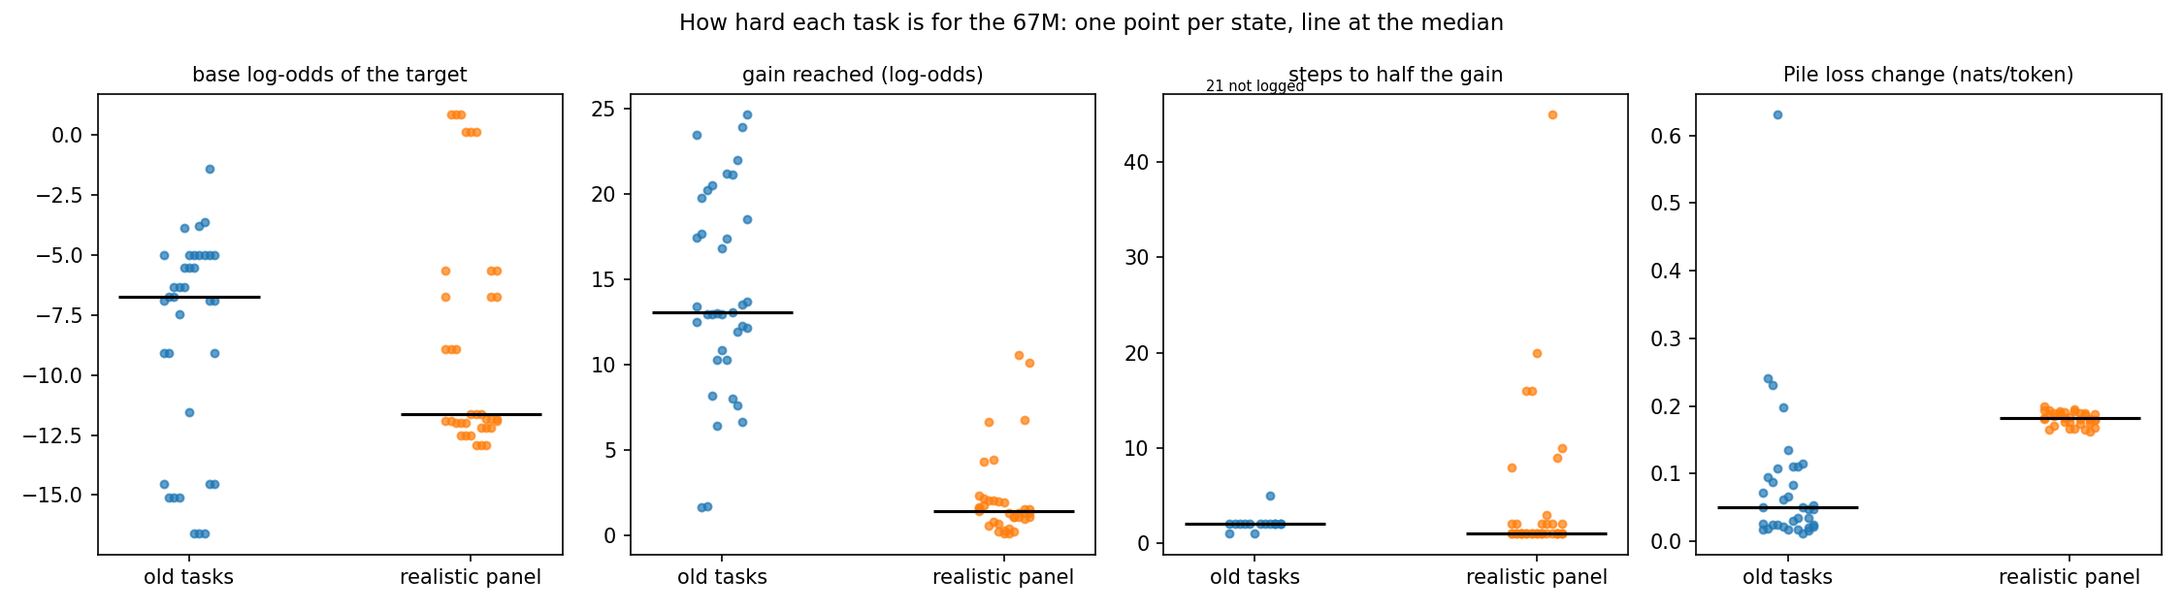
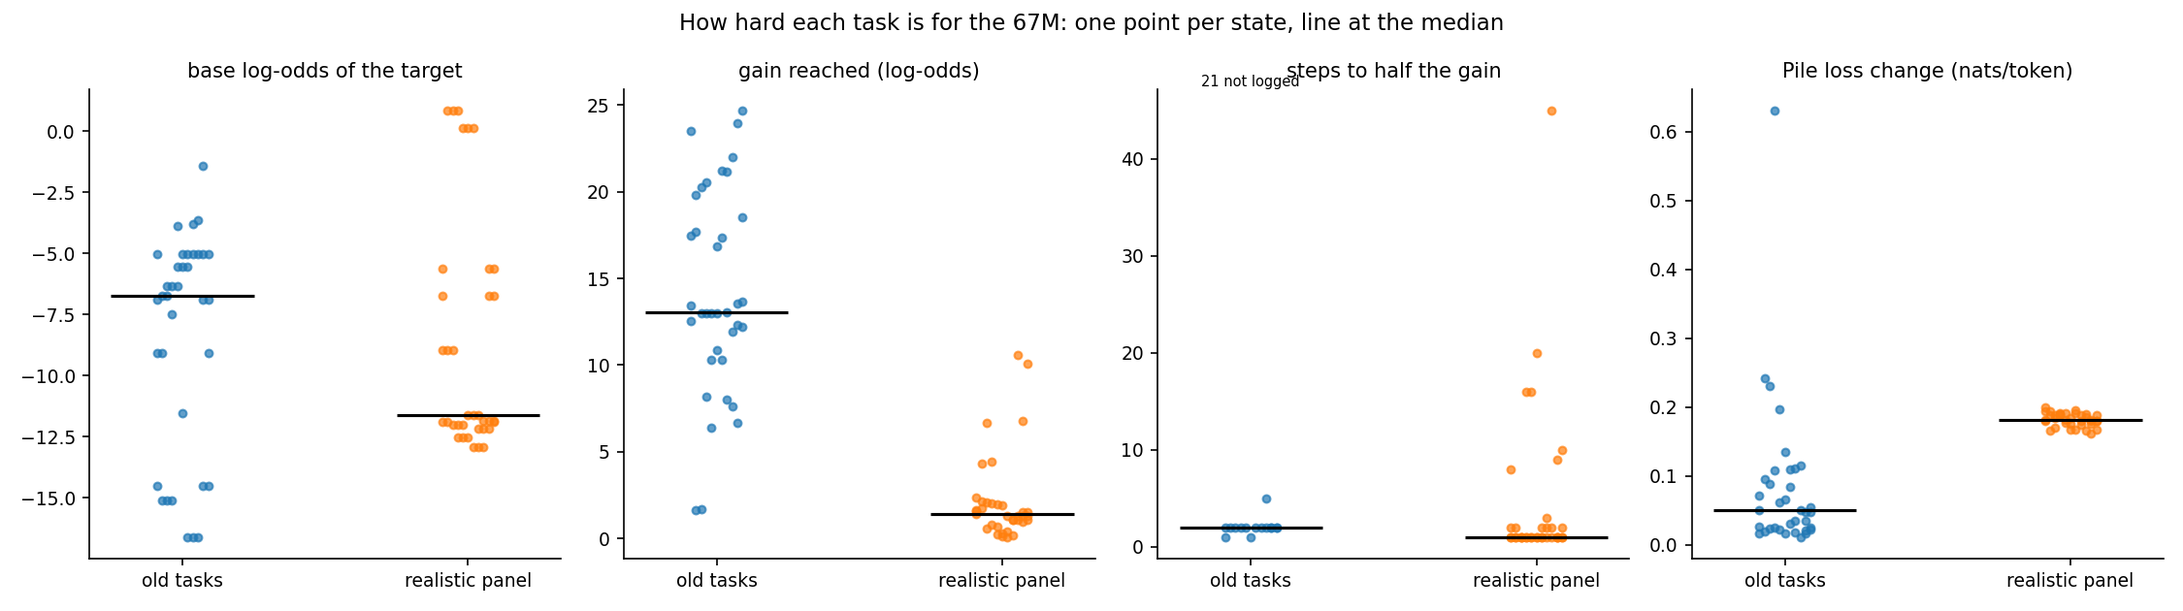
E292 (P2.74) report: redteam fixes. Empty needed set reads no reading in the twin table (which/we pairs, both featurizations); no reuse labels on old tasks; K beside every write share, K<100 marked below the panel limit; rho n and seed note; realistic gain unit (token-target median added in plot.py,

diff --git a/experiments/old_tasks_read/plot.py b/experiments/old_tasks_read/plot.py
@@ -51,6 +51,7 @@ TASKS = {"emoticon": "emoticon -> o", "emoticon_http": "emoticon -> ' http'", "e
          "r2_t359_v816_http": "' we' -> ' http'", "many_one": "32 cues -> ' of'", "many_many": "32 cues -> own targets",
          "r0_t588_v320": "' will' -> ' be'", "r0_t352_v310": "' it' -> ' is'", "r1_t588_v452": "' will' -> ' have'",
          "r2_t275_v2667": "' in' -> ' Fig'", "lowercase": "lowercase text", "case_real": "case label"}  # fmt: skip
+LABEL_TASKS = ("topic", "sentiment", "category")  # E272's label tasks (its tasks.py): prior and gain in the two-label contrast
 GROUP_ENDS = (2, 4, 6, 8)  # rows after which a trigger group ends: emoticon x3, which x2, we x2, cues x2, then the rest
 
 
@@ -162,6 +163,8 @@ def difficulty_readings(S: dict[str, Any], rows: list[dict[str, Any]]) -> dict[s
     pan, sizes = realistic_pairs()
     out: dict[str, Any] = {
         "medians": {n: {k: median([r[k] for r in rows if r["set"] == n]) for k, _ in AXES} for n in sets},
+        "realistic_token_targets": {"n": sum(r["set"] == "realistic" and r["task"] not in LABEL_TASKS for r in rows)}
+        | {k: median([r[k] for r in rows if r["set"] == "realistic" and r["task"] not in LABEL_TASKS]) for k in ("prior", "gain")},
         "n_states": {n: sum(r["set"] == n for r in rows) for n in sets},
         "under_gain_floor": {n: sum(1 for r in rows if r["set"] == n and finite(r["gain"]) and r["gain"] < 1) for n in sets},
         "old_rho_with_gain": {k: rho_with_gain([(old[s]["gain"], S["readings"].get(s, {}).get(k)) for s in old]) for k, _, _ in READS},

diff --git a/reports/analyses/2026-11-24_analysis_p2-74-old-tasks.md b/reports/analyses/2026-11-24_analysis_p2-74-old-tasks.md
@@ -6,11 +6,11 @@ This is a descriptive cell: nothing below is read against a bar, and no reading 
 
 ## The answer
 
-On the old trigger tasks no reading told the emoticon fine-tune apart from both of its twins, which learn a different word at the same trigger. The re-gating share again read the emoticon and its ` http` twin alike, as when this control first failed. The old tasks gain about ten times more than the realistic panel's tasks. So the realistic panel was too hard for two readings on ten of its states, but easier tasks did not make any reading pass the twin control.
+On the old trigger tasks no reading told the emoticon fine-tune apart from both of its twins, which learn a different word at the same trigger. The re-gating share again read the emoticon and its ` http` twin alike, as when this control first failed. The old tasks gain about ten times more than the realistic panel's tasks. Ten realistic states gained under one log-odds, the readings' floor, so two readings had no value there; no old state did. But easier tasks did not make any reading separate the emoticon from both twins.
 
 ## What we were trying to test
 
-Each old task is one short fine-tune of the released 67M model, ten Adam steps for the trigger tasks, with the recipe of the experiment that first ran it. The trigger tasks teach one target token at windows where a mined trigger appears: the emoticon task teaches `o` where the paper's emoticon subcomponent is active, and the ladder tasks teach pairs such as ` which` followed by ` was`. Three of them have **twins**: the same windows and recipe, but a different target, ` http` or the end-of-text token. A twin changes what is learned while keeping the trigger, so a reading of reuse should not treat the real task and its twin as the same thing just because the trigger is shared. The many-cues pair teaches 32 mined cue words toward ` of`, or each toward its own matched target. Lowercase text and the real case label are the two older tasks without a trigger.
+Each old task is one short fine-tune of the released 67M model, ten Adam steps for the trigger tasks, with the recipe of the experiment that first ran it. The trigger tasks teach one target token at windows where a mined trigger appears: the emoticon task teaches `o` where the paper's emoticon subcomponent is active, and the ladder tasks teach pairs such as ` which` followed by ` was`. Three of them have **twins**: the same windows and recipe, but a different target, ` http` or the end-of-text token. A twin changes what is learned while keeping the trigger, so a reading should not treat the real task and its twin as the same thing just because the trigger is shared. The many-cues pair teaches 32 mined cue words toward ` of`, or each toward its own matched target. Lowercase text and the real case label are the two older tasks without a trigger.
 
 The fifteen tasks give 36 states: three seeds for the twin groups and the case label, two for lowercase, one for the rest, plus the emoticon's original run at steps 10, 30, 100 and 300. Each state is read through its owner's code:
 
@@ -35,7 +35,7 @@ Step 3 sets the old states beside the 36 states of the realistic panel at matche
 
 **The crosscoder and ADL: no reading, control failed.** The crosscoder with the exclusion of its appendix fails every planted control at fine-tune size on the 67M, and ADL's filed positive control on lowercase failed through our port. Neither was run here.
 
-**The write share over the needed set has almost nothing to read on a trigger task.** On the 25 trigger-task states the needed set holds a median of 4 neurons and at most 32. It is empty on 4 states at neurons and on 9 at VPD, where the median is 3 subcomponents. An empty set reads 1 by convention, which is not a measurement. The realistic panel's needed sets held about twenty thousand variables, and at least 200 on every state. The realistic panel set any needed set under 100 variables as unreadable; this run filed no such rule, so the values are reported, but on the trigger tasks they rest on a handful of variables.
+**The write share over the needed set has almost nothing to read on a trigger task.** On the 25 trigger-task states the needed set holds a median of 4 neurons and at most 32. It is empty on 4 states at neurons and on 9 at VPD, where the median is 3 subcomponents. An empty set reads 1 by convention, which is not a reading: below, a state with an empty set is written "K empty", and a twin pair with an empty set on any seed reads "no reading". The realistic panel's needed sets held about twenty thousand variables, and at least 200 on every state. The realistic panel set any needed set under 100 variables as unreadable; this run filed no such rule, so the values are reported with the needed set's size K beside each, and a K under 100 is marked "below the panel's limit". Every trigger-task state but one ` we` to ` http` seed at VPD is below it.
 
 ## Does any reading separate a real fine-tune from its other-target twins?
 
@@ -45,11 +45,11 @@ Step 3 sets the old states beside the 36 states of the realistic panel at matche
 
 The steering share and the 64-neuron share do separate all three real trigger tasks from their ` http` twins, in one direction each: steering higher on the real task, the neuron share lower. Both reverse against the end-of-text twin. The ` http` twins of the two ladder tasks start from a far lower base log-odds and gain about twice as much as the real tasks, so on those pairs the twin also differs in how much was learned. The emoticon's ` http` twin gains the same as the emoticon and still reads lower on steering.
 
-The write share over the needed set separates no emoticon pair at neurons. Its one "real above" call, on ` we` to ` just`, comes from the real task's needed set being empty on all three seeds, so it reads the convention value of 1. EAP-IG reads only the ` we` pair on all seeds: the real task keeps more of the base circuit, 0.66 to 0.78 of its edges against 0.59 to 0.64 for the twin. On the three twin triggers every fine-tune's overlap sits below the range the base model itself reads when its task rows are resampled; on the other tasks several sit inside that range.
+The write share over the needed set separates no emoticon pair at neurons. On both ladder pairs it gives no reading at either featurization: on ` we` to ` just` the real task's needed set is empty on all three seeds, at neurons and at VPD; on ` which` to ` was` it is empty on one seed at neurons and on all three at VPD. EAP-IG reads only the ` we` pair on all seeds: the real task keeps more of the base circuit, 0.66 to 0.78 of its edges against 0.59 to 0.64 for the twin. On the three twin triggers every fine-tune's overlap sits below the range the base model itself reads when its task rows are resampled; on the other tasks several sit inside that range.
 
 ### The twin rule's calls
 
-Each call compares the real task with its twin on every common seed, against the difference between their random updates. "No reading" means a value was missing on some seed.
+Each call compares the real task with its twin on every common seed, against the difference between their random updates. "No reading" means a value was missing on some seed, or, for the write share over the needed set, the needed set of either task was empty on some seed, so the value there is the convention, not a reading.
 
 | reading | emoticon vs ` http` | emoticon vs end of text | ` which` vs ` http` | ` we` vs ` http` | 32 cues, one vs own targets, 1 seed |
 |---|---|---|---|---|---|
@@ -59,9 +59,9 @@ Each call compares the real task with its twin on every common seed, against the
 | untrained, rotated | real below | does not separate | real above | real above | real above |
 | neuron share, 64 | real below | real above | real below | real below | real above |
 | neuron share, matched | real below | real above | does not separate | real below | does not separate |
-| write share, neurons | does not separate | does not separate | does not separate | real above, empty set | real below |
+| write share, neurons | does not separate | does not separate | no reading | no reading | real below |
 | the same, no remainders | does not separate | does not separate | no reading | no reading | real above |
-| write share, VPD | does not separate | real below | does not separate | does not separate | real below |
+| write share, VPD | does not separate | real below | no reading | no reading | real below |
 | EAP-IG edges kept | no reading | no reading | no reading | real above | real below |
 
 ### Every reading per task
@@ -70,30 +70,30 @@ Ranges are over the seeds at the scored step; the emoticon's original run at lat
 
 | task | seeds | re-gating share | steering share | untrained, SVD | untrained, rotated | neuron, 64 | neuron, matched | write share, neurons | same, no remainders | write share, VPD | EAP-IG edges kept |
 |---|---|---|---|---|---|---|---|---|---|---|---|
-| emoticon to o | 3 | 0.60 to 0.61 | 1.49 to 1.74 | 0.02 to 0.11 | -0.12 to 0.04 | 0.016 to 0.021 | 0.004 to 0.007 | 0.003 to 0.019 | 0.019 to 0.024 | 0.005 to 0.011 | 0.42 (1 of 3) |
-| emoticon to ' http' | 3 | 0.57 to 0.60 | 1.15 to 1.24 | 0.17 to 0.18 | 0.16 to 0.27 | 0.026 to 0.038 | 0.020 to 0.022 | 0.017 to 0.035 | 0.017 to 0.035 | 0.000 to 0.022 | 0.53 (1 of 3) |
-| emoticon to end of text | 3 | 0.53 to 0.55 | 1.82 to 1.86 | 0.03 to 0.07 | 0.05 to 0.09 | 0.001 to 0.005 | -0.007 to 0.005 | 0.002 to 0.052 | 0.012 to 0.052 | 0.009 to 0.142 | 0.43 to 0.50 |
-| ' which' to ' was' | 3 | 0.74 to 0.77 | 1.34 to 1.43 | -0.15 to -0.03 | 0.16 to 0.37 | 0.011 to 0.022 | 0.013 to 0.023 | 0.004 to 1.000 | 0.004 to 0.019 (2 of 3) | 1.000 | 0.79 to 0.84 |
-| ' which' to ' http' | 3 | 0.44 to 0.55 | 1.02 to 1.11 | 0.03 | 0.04 to 0.09 | 0.048 to 0.054 | 0.023 to 0.025 | 0.037 to 0.050 | 0.037 to 0.050 | 0.023 to 1.000 | 0.51 to 0.58 (2 of 3) |
-| ' we' to ' just' | 3 | 0.27 to 0.28 | 1.38 to 1.43 | 0.01 to 0.02 | 0.01 to 0.09 | 0.016 to 0.020 | 0.007 to 0.009 | 1.000 | none | 1.000 | 0.66 to 0.78 |
-| ' we' to ' http' | 3 | 0.45 to 0.49 | 1.07 to 1.12 | -0.02 to 0.02 | -0.10 to -0.02 | 0.027 to 0.034 | 0.022 to 0.024 | 0.005 to 0.013 | 0.006 to 0.038 | 0.038 to 1.000 | 0.59 to 0.64 |
-| 32 cues to ' of' | 1 | 1.10 | 2.41 | 0.10 | 0.18 | 0.027 | 0.007 | 0.031 | 0.217 | 0.048 | 0.65 |
-| 32 cues to own targets | 1 | 0.78 | 0.48 | -0.05 | 0.16 | -0.007 | 0.007 | 0.045 | 0.165 | 0.055 | 0.74 |
-| ' will' to ' be' | 1 | 1.07 | 2.51 | 0.02 | 0.00 | 0.012 | -0.007 | 0.001 | 0.014 | 0.036 | 0.75 |
-| ' it' to ' is' | 1 | 0.86 | 1.28 | 0.08 | -0.21 | 0.029 | 0.005 | 0.041 | 0.041 | 0.035 | 0.81 |
-| ' will' to ' have' | 1 | 0.90 | 1.49 | -0.01 | 0.03 | 0.005 | -0.011 | 0.002 | 0.011 | 0.004 | 0.77 |
-| ' in' to ' Fig' | 1 | 0.53 | 1.21 | 0.07 | 0.04 | 0.000 | 0.022 | 0.007 | 0.121 | 0.028 | 0.82 |
-| lowercase text | 2 | 0.75 to 0.77 | 0.69 to 0.71 | 0.02 to 0.12 | 0.33 to 0.49 | 0.034 to 0.047 | 0.008 to 0.010 | 0.029 to 0.033 | 0.067 to 0.068 | 0.024 to 0.029 | none |
-| case label | 3 | 0.11 to 0.14 | 0.61 to 0.64 | -0.02 to 0.01 | 0.04 to 0.09 | 0.009 to 0.018 | 0.003 to 0.008 | 0.003 to 0.008 | 0.021 to 0.124 | 0.021 to 0.040 | none |
-| matched random, all states | | 0.03 | 0.03 | 0.04 | 0.06 | 0.015 | 0.026 | 0.006 | 0.014 | 0.014 | 0.97, lowest |
+| emoticon to o | 3 | 0.60 to 0.61 | 1.49 to 1.74 | 0.02 to 0.11 | -0.12 to 0.04 | 0.016 to 0.021 | 0.004 to 0.007 | 0.003 to 0.019; K 6 to 8, below the panel's limit | 0.019 to 0.024; K 6 to 8, below the panel's limit | 0.005 to 0.011; K 3 to 4, below the panel's limit | 0.42 (1 of 3) |
+| emoticon to ' http' | 3 | 0.57 to 0.60 | 1.15 to 1.24 | 0.17 to 0.18 | 0.16 to 0.27 | 0.026 to 0.038 | 0.020 to 0.022 | 0.017 to 0.035; K 7, below the panel's limit | 0.017 to 0.035; K 7, below the panel's limit | 0.000 to 0.022; K 4 to 5, below the panel's limit | 0.53 (1 of 3) |
+| emoticon to end of text | 3 | 0.53 to 0.55 | 1.82 to 1.86 | 0.03 to 0.07 | 0.05 to 0.09 | 0.001 to 0.005 | -0.007 to 0.005 | 0.002 to 0.052; K 5 to 7, below the panel's limit | 0.012 to 0.052; K 5 to 7, below the panel's limit | 0.009 to 0.142; K 4, below the panel's limit | 0.43 to 0.50 |
+| ' which' to ' was' | 3 | 0.74 to 0.77 | 1.34 to 1.43 | -0.15 to -0.03 | 0.16 to 0.37 | 0.011 to 0.022 | 0.013 to 0.023 | 0.004 to 0.019 (2 of 3); K 1 to 2, below the panel's limit; third seed K empty, E_b = 1 by convention, not a reading | 0.004 to 0.019 (2 of 3); K 1 to 2, below the panel's limit; third seed K empty, not a reading | K empty on all three seeds, E_b = 1 by convention, not a reading | 0.79 to 0.84 |
+| ' which' to ' http' | 3 | 0.44 to 0.55 | 1.02 to 1.11 | 0.03 | 0.04 to 0.09 | 0.048 to 0.054 | 0.023 to 0.025 | 0.037 to 0.050; K 1 to 4, below the panel's limit | 0.037 to 0.050; K 1 to 4, below the panel's limit | 0.023 and 0.328 (2 of 3); K 1 and 2, below the panel's limit; third seed K empty, E_b = 1 by convention, not a reading | 0.51 to 0.58 (2 of 3) |
+| ' we' to ' just' | 3 | 0.27 to 0.28 | 1.38 to 1.43 | 0.01 to 0.02 | 0.01 to 0.09 | 0.016 to 0.020 | 0.007 to 0.009 | K empty on all three seeds, E_b = 1 by convention, not a reading | none: K empty on all three seeds, not a reading | K empty on all three seeds, E_b = 1 by convention, not a reading | 0.66 to 0.78 |
+| ' we' to ' http' | 3 | 0.45 to 0.49 | 1.07 to 1.12 | -0.02 to 0.02 | -0.10 to -0.02 | 0.027 to 0.034 | 0.022 to 0.024 | 0.005 to 0.013; K 4 to 32, below the panel's limit | 0.006 to 0.038; K 4 to 32, below the panel's limit | 0.038 (1 of 3); K 102; two seeds K empty, E_b = 1 by convention, not a reading | 0.59 to 0.64 |
+| 32 cues to ' of' | 1 | 1.10 | 2.41 | 0.10 | 0.18 | 0.027 | 0.007 | 0.031; K 488 | 0.217; K 488 | 0.048; K 1491 | 0.65 |
+| 32 cues to own targets | 1 | 0.78 | 0.48 | -0.05 | 0.16 | -0.007 | 0.007 | 0.045; K 2203 | 0.165; K 2203 | 0.055; K 7398 | 0.74 |
+| ' will' to ' be' | 1 | 1.07 | 2.51 | 0.02 | 0.00 | 0.012 | -0.007 | 0.001; K 12, below the panel's limit | 0.014; K 12, below the panel's limit | 0.036; K 17, below the panel's limit | 0.75 |
+| ' it' to ' is' | 1 | 0.86 | 1.28 | 0.08 | -0.21 | 0.029 | 0.005 | 0.041; K 2, below the panel's limit | 0.041; K 2, below the panel's limit | 0.035; K 5, below the panel's limit | 0.81 |
+| ' will' to ' have' | 1 | 0.90 | 1.49 | -0.01 | 0.03 | 0.005 | -0.011 | 0.002; K 2, below the panel's limit | 0.011; K 2, below the panel's limit | 0.004; K 1, below the panel's limit | 0.77 |
+| ' in' to ' Fig' | 1 | 0.53 | 1.21 | 0.07 | 0.04 | 0.000 | 0.022 | 0.007; K 16, below the panel's limit | 0.121; K 16, below the panel's limit | 0.028; K 38, below the panel's limit | 0.82 |
+| lowercase text | 2 | 0.75 to 0.77 | 0.69 to 0.71 | 0.02 to 0.12 | 0.33 to 0.49 | 0.034 to 0.047 | 0.008 to 0.010 | 0.029 to 0.033; K 4934 to 8683 | 0.067 to 0.068; K 4934 to 8683 | 0.024 to 0.029; K 15709 to 33093 | none |
+| case label | 3 | 0.11 to 0.14 | 0.61 to 0.64 | -0.02 to 0.01 | 0.04 to 0.09 | 0.009 to 0.018 | 0.003 to 0.008 | 0.003 to 0.008; K 14 to 53, below the panel's limit | 0.021 to 0.124; K 14 to 53, below the panel's limit | 0.021 to 0.040; K 22 to 212, two seeds below the panel's limit | none |
+| matched random, all states | | 0.03 | 0.03 | 0.04 | 0.06 | 0.015 | 0.026 | 0.006; K 1370 or more | 0.014; K 1370 or more | 0.014; K 2665 or more | 0.97, lowest |
 
-A write share of 1.000 is an empty needed set. The needed-set sizes per state are in `results/eb_neurons/items/` and `results/eb_vpd/items/` as `size_K`; no item had a fragile position.
+K is the needed set's size: neurons in the two neuron columns, subcomponents in the VPD column. An empty K gives a write share of 1 by convention, which is not a reading. "Below the panel's limit" marks a K under 100, the size under which the realistic panel called a needed set unreadable; this run filed no such rule, so those values are reported, not discarded. The sizes per state are in `results/eb_neurons/items/` and `results/eb_vpd/items/` as `size_K`; no item had a fragile position.
 
 ## Was the realistic panel too hard for the 67M?
 
 ![Difficulty of old tasks and the realistic panel](../../experiments/old_tasks_read/figures/difficulty.png)
 
-**Reading it.** Yes, by every measure but the base log-odds, the old tasks are far easier. The median old state gains 13.0 log-odds against 1.36 on the realistic panel, and changes the loss on Pile text by 0.049 nats per token against 0.182. The old tasks also start from a higher median base log-odds, -6.76 against -11.7, though the two ranges overlap and the realistic panel's value is in its own scored unit. The old tasks that logged it reach half their gain in a median of two steps, and the realistic panel within its first save, so that axis does not tell the panels apart.
+**Reading it.** Yes, by every measure but the base log-odds, the old tasks are far easier. The median old state gains 13.0 log-odds against 1.36 on the realistic panel, and changes the loss on Pile text by 0.049 nats per token against 0.182. The old tasks also start from a higher median base log-odds, -6.76 against -11.7, though the two ranges overlap and the realistic panel's value is in its own scored unit. That unit holds for its gain too: the log-odds of the target on its 30 token-target states, but the contrast between the two labels on its 6 label-task states, so the panel-wide median mixes units. Over the 30 token-target states alone the median gain is also 1.36 log-odds. The old tasks that logged it reach half their gain in a median of two steps, and the realistic panel within its first save, so that axis does not tell the panels apart.
 
 | task | seeds | base log-odds | gain | Pile loss change |
 |---|---|---|---|---|
@@ -113,18 +113,18 @@ A write share of 1.000 is an empty needed set. The needed-set sizes per state ar
 | lowercase text | 2 | -6.8 | 1.6 to 1.7 | 0.231 to 0.242 |
 | case label | 3 | -14.5 | 23.5 to 24.7 | 0.034 to 0.071 |
 
-**Do the readings' failures on the realistic panel track difficulty?** One does, directly. On 10 of the realistic panel's 36 states the gain stayed under one log-odds, so the re-gating and steering shares could not be read; no old state fell under it. The other failures do not line up with difficulty in any simple way. Within the realistic panel the rank agreement of each reading with the gain is weak: 0.20 for the re-gating share, 0.22 for the write share over the needed set, and -0.41 and -0.39 for steering and the effective rank. The write share's reversal against the raters, a rank agreement of -0.69, is not a gain effect at this strength. On the old tasks, which the model learns well, the readings still fail the twin control above. Within the old tasks the re-gating share falls as the gain rises, a rank agreement of -0.76, and the EAP-IG overlap does too, at -0.60; the other readings sit at 0.30 or less in size. These are descriptive rank agreements over states, with seeds of one task counted separately.
+**Do the readings' failures on the realistic panel track difficulty?** One does, directly. Ten realistic states gained under one log-odds, the readings' floor, so the re-gating and steering shares have no value there; no old state did. The other failures do not line up with difficulty in any simple way. Within the realistic panel the rank agreement of each reading with the gain is weak. Over the 26 states above the floor it is 0.20 for the re-gating share and -0.41 for steering. Over all 36 it is 0.22 for the write share over the needed set and -0.39 for the effective rank. Steering's -0.41 is at the edge of what 26 states can tell from noise: the two-sided 5% edge for a rank agreement at that count is about 0.39. The write share's reversal against the raters, a rank agreement of -0.69, is not explained by gain alone (rank agreement with gain 0.22). On the old tasks, which the model learns well, no reading separates the emoticon from both twins. Within the old tasks the re-gating share falls as the gain rises, a rank agreement of -0.76 over 36 states, and the EAP-IG overlap does too, at -0.60 over the 22 states it read; the other readings sit at 0.30 or less in size. These are descriptive rank agreements. The 36 old states come from 15 tasks, with the seeds of one task and the emoticon's later steps counted as separate states, so the count overstates how many independent points stand behind each value.
 
 Lowercase text is in both panels, on the same rows and at almost the same gain. Its re-gating share reads 0.75 to 0.77 here and 0.81 to 0.86 on the realistic panel. That is the one task where the two panels can be compared directly, and they agree in kind.
 
 ## What we learned
 
-The old near-realistic tasks are a fair test of whether the realistic panel was simply too hard: the 67M learns them ten times more strongly with a smaller side effect on Pile text. On them the readings are readable and clear of their random updates, but none passes the control the old re-gating share failed. A reading that moves with the target rather than with the trigger, as steering and the neuron share do here, separates real tasks from twins in a direction that flips with which twin is chosen. So the realistic panel's difficulty explains why two readings had no value on ten states, not why the readings cannot tell a reused route from a different target at the same trigger. The write share over the needed set needs many positions to read: on a one-token trigger task its needed set is a handful of variables or none.
+The old near-realistic tasks are a fair test of whether the realistic panel was simply too hard: the 67M learns them ten times more strongly with a smaller side effect on Pile text. On them the readings are readable and clear of their random updates, but none separates the emoticon from both twins, the test the old re-gating share failed. A reading that moves with the target rather than with the trigger, as steering and the neuron share do here, separates real tasks from twins in a direction that flips with which twin is chosen. So the realistic panel's difficulty explains why two readings had no value on ten states, not why the readings cannot tell the real target from a different target at the same trigger. The write share over the needed set needs many positions to read: on a one-token trigger task its needed set is a handful of variables or none.
 
 ## How compelling is the evidence
 
 - Three seeds per side on each twin pair; the many-cues pair has one. The other ladder tasks have one seed each.
-- The null for each pair is one random draw per state, so it can be small by chance. Most nulls are tiny next to the differences, so the calls are not near their edge, except where the needed set is empty.
+- The null for each pair is one random draw per state, so it can be small by chance. Most nulls are tiny next to the differences, so the calls are not near their edge; a pair with an empty needed set on any seed is no reading, not a call.
 - The ` http` twins of the ladder tasks are not matched in gain to their real tasks; the emoticon's ` http` twin is.
 - The trigger tasks are read at one position per window; the realistic panel at every position of the text. The write share over the needed set is the reading this matters most for.
 - Each reading was run with its owner's code, not a copy.
@@ -139,7 +139,7 @@ The old near-realistic tasks are a fair test of whether the realistic panel was 
 
 ## Surprises
 
-The steering share separated every real trigger task from its ` http` twin, all seeds, with the real task higher, and reversed against the emoticon's end-of-text twin. This was not filed as an expectation either way. The ` we` to ` just` task has an empty needed set at both neurons and VPD on all three seeds, while its twin has a non-empty one.
+The steering share separated every real trigger task from its ` http` twin, all seeds, with the real task higher, and reversed against the emoticon's end-of-text twin. This was not filed as an expectation either way. The ` we` to ` just` task has an empty needed set at both neurons and VPD on all three seeds, while its twin's is non-empty at neurons on all three and at VPD on one.
 
 ## What next
 
